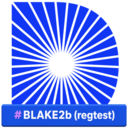
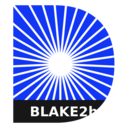
Rebrand, and stop claiming regtest-only in the title
Same change as the node package: the full-width blue "#BLAKE2b (regtest)"
rectangle becomes a band clipped to the logo's own D silhouette, reading
BLAKE2b, in the #171717 the Knots icons use.

Rebuilding the base needed the upstream logo rather than the shipped
icon: the sticker covered the D's lower curve, so the clean shape was not
recoverable from what we had. Rendered from
www/assets/icons/datum_logo.svg, which needs a real SVG renderer -
ImageMagick mishandles its luminance mask and produces a solid white
shape with no starburst.

The title loses "(regtest)" too, along with the short description and the
dependency metadata. This package follows whichever chain the node is on,
and has since the cookie path stopped being hardcoded, so the title was
telling users something that was no longer true.

diff --git a/startos/manifest/index.ts b/startos/manifest/index.ts
@@ -4,10 +4,10 @@ import { knotsDependencyDescription } from './i18n-dependency'
 
 export const manifest = setupManifest({
   // Deliberately NOT `datum`: that is the official Datum Gateway package, and
-  // both must be installable at once. See PLAN Q12 on why `regtest` stays out of
+  // both must be installable at once. See PLAN Q12 on why the chain stays out of
   // the id and in the title.
   id: 'datum-blake2b',
-  title: 'Datum Gateway BLAKE2b (regtest)',
+  title: 'Datum Gateway BLAKE2b',
   license: 'MIT',
   packageRepo: 'https://github.com/paulscode/datum-blake2b-startos',
   upstreamRepo: 'https://github.com/OCEAN-xyz/datum_gateway',
@@ -42,7 +42,7 @@ export const manifest = setupManifest({
       description: knotsDependencyDescription,
       optional: false,
       metadata: {
-        title: 'Bitcoin Knots BLAKE2b (regtest)',
+        title: 'Bitcoin Knots BLAKE2b',
         // A dependency icon is an absolute URL into the dependency's repo, not a
         // magic filename, so PNG is fine (E9). It is fetched by the StartOS UI,
         // which means the packaging repo has to be public for it to render.

diff --git a/startos/manifest/i18n.ts b/startos/manifest/i18n.ts
@@ -1,7 +1,8 @@
 // Only en_US is authored here. The other locales are left as the English text
 // rather than machine-translated, so a translator can see what still needs doing
 // instead of finding plausible-looking text that nobody checked.
-const shortEn = 'EXPERIMENTAL: mine the BLAKE2b regtest chain with a Sia ASIC'
+const shortEn =
+  'EXPERIMENTAL: mine the BLAKE2b test chains with a Sia ASIC'
 
 const longEn =
   'A build of DATUM Gateway that serves Sia-style BLAKE2b work, so an existing ' +
@@ -10,7 +11,7 @@ const longEn =
   'stock firmware; a Goldshell HS-Box has been verified end to end. ' +
   'Solo mining only: pooled BLAKE2b is not possible today because the pool side ' +
   'is closed-source and SHA256d-only. ' +
-  'Requires the Bitcoin Knots BLAKE2b (regtest) service, not the official ' +
+  'Requires the Bitcoin Knots BLAKE2b service, not the official ' +
   'Bitcoin package, and installs alongside the official Datum Gateway without ' +
   'disturbing it. Regtest only: the coins are worthless by construction.'
 

diff --git a/instructions.md b/instructions.md
@@ -1,4 +1,4 @@
-# Datum Gateway BLAKE2b (regtest)
+# Datum Gateway BLAKE2b
 
 This turns your BLAKE2b node's block templates into work an existing
 Sia-compatible BLAKE2b ASIC can mine, and hands it out over Stratum on your LAN.
@@ -9,7 +9,7 @@ whether your miner works with the proposed BLAKE2b proof of work.
 
 ## Before you start
 
-You need **Bitcoin Knots BLAKE2b (regtest)** installed and running. Not the regular
+You need **Bitcoin Knots BLAKE2b** installed and running. Not the regular
 Bitcoin service: that chain uses SHA256d, which a Sia miner cannot mine at all.
 
 ## Setup
@@ -18,7 +18,7 @@ Bitcoin service: that chain uses SHA256d, which a Sia miner cannot mine at all.
 
 Every block you mine pays to an address you choose. To get one:
 
-1. Open **Bitcoin Knots BLAKE2b (regtest)**.
+1. Open **Bitcoin Knots BLAKE2b**.
 2. Make sure it is **running**.
 3. Go to **Actions** and run **Get Payout Address**.
 4. Copy the address it shows you. It starts with `m`, `n` or `2`.
